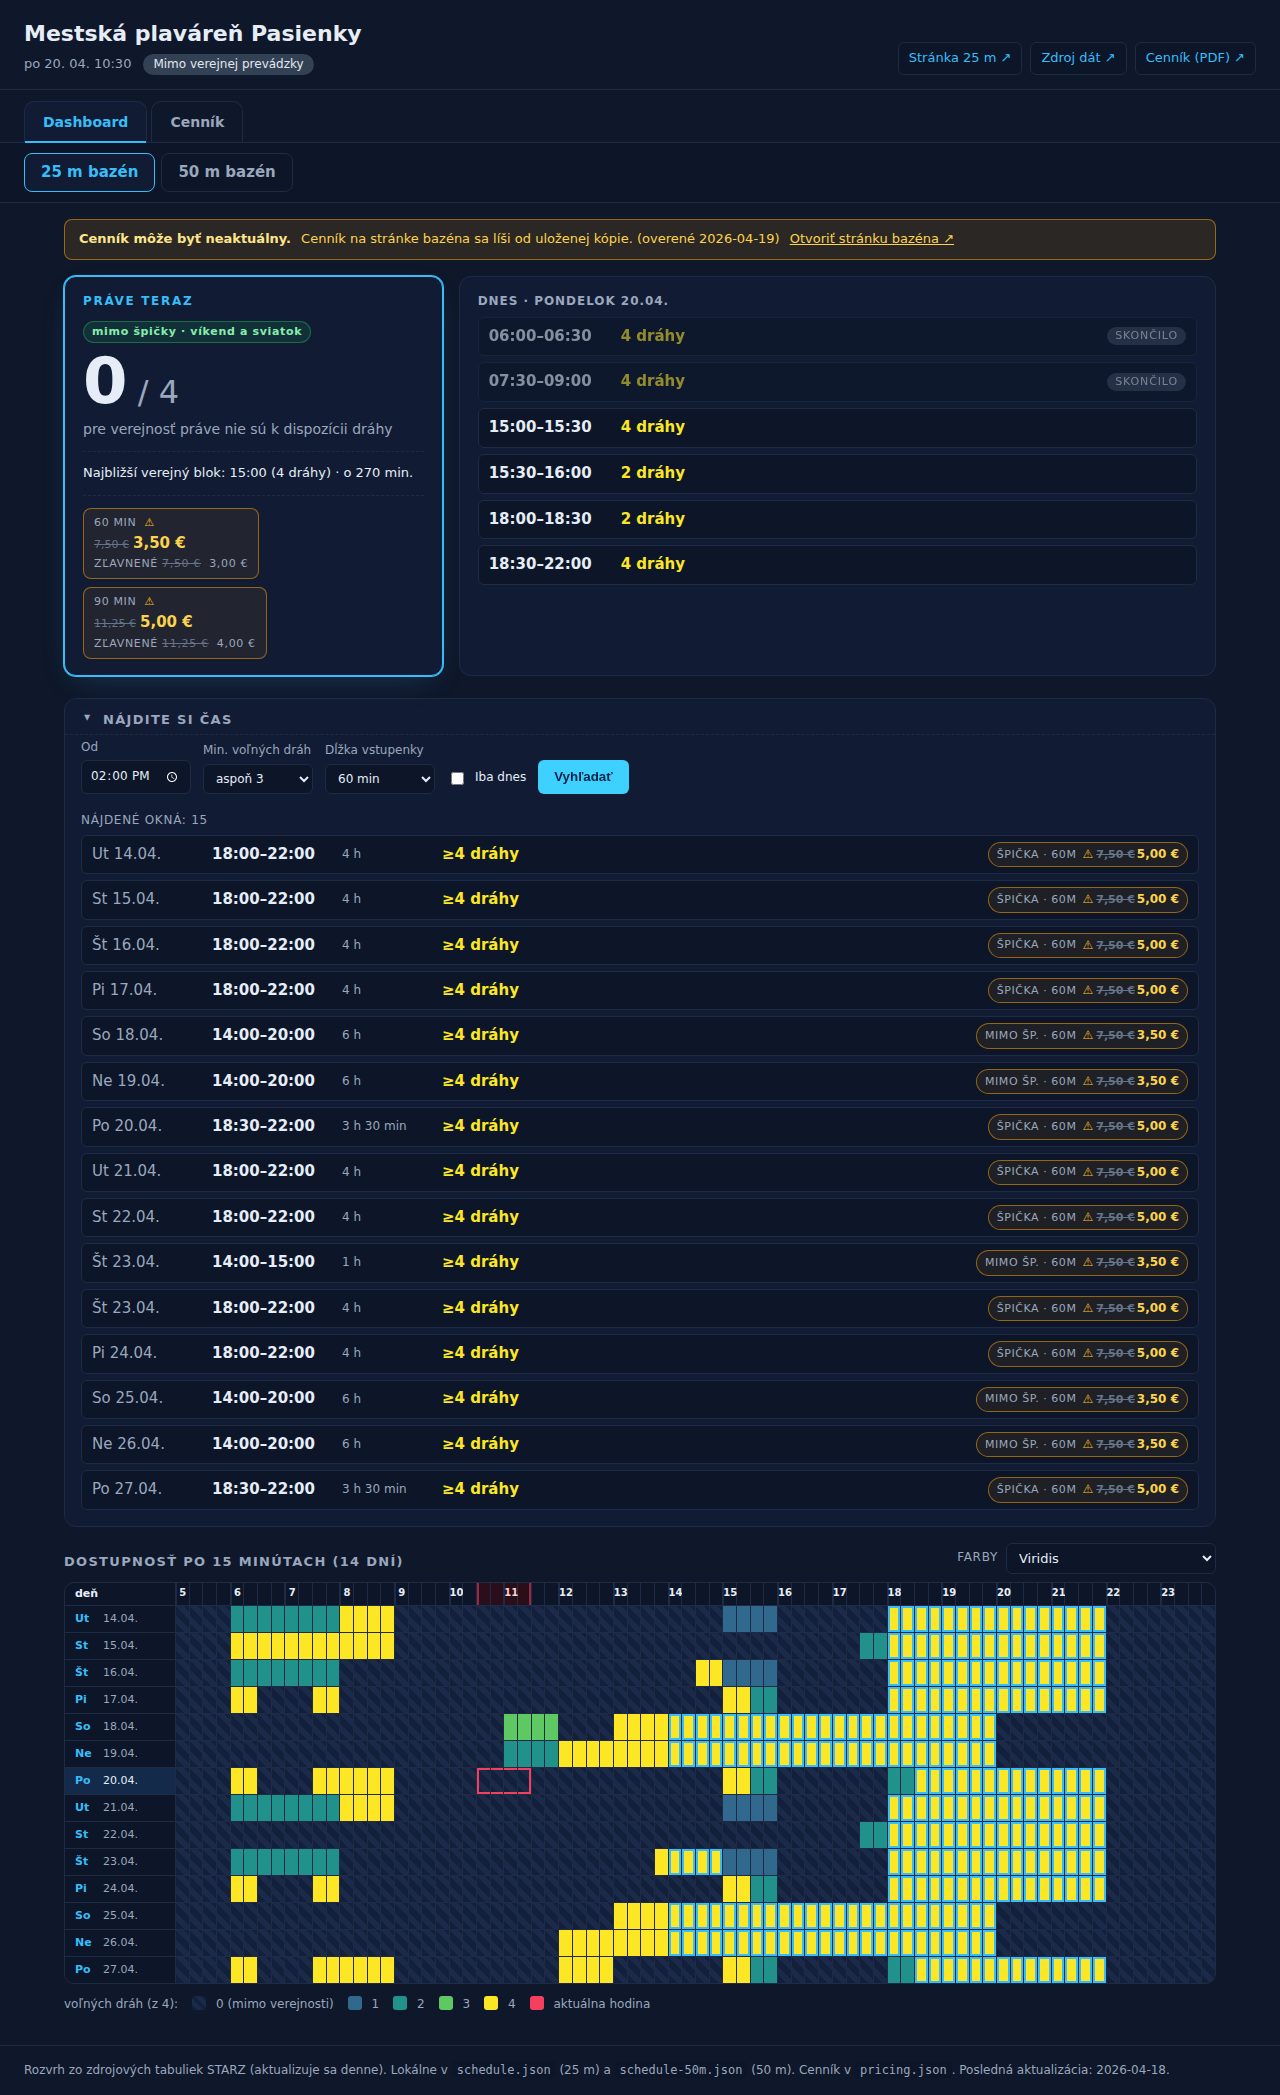
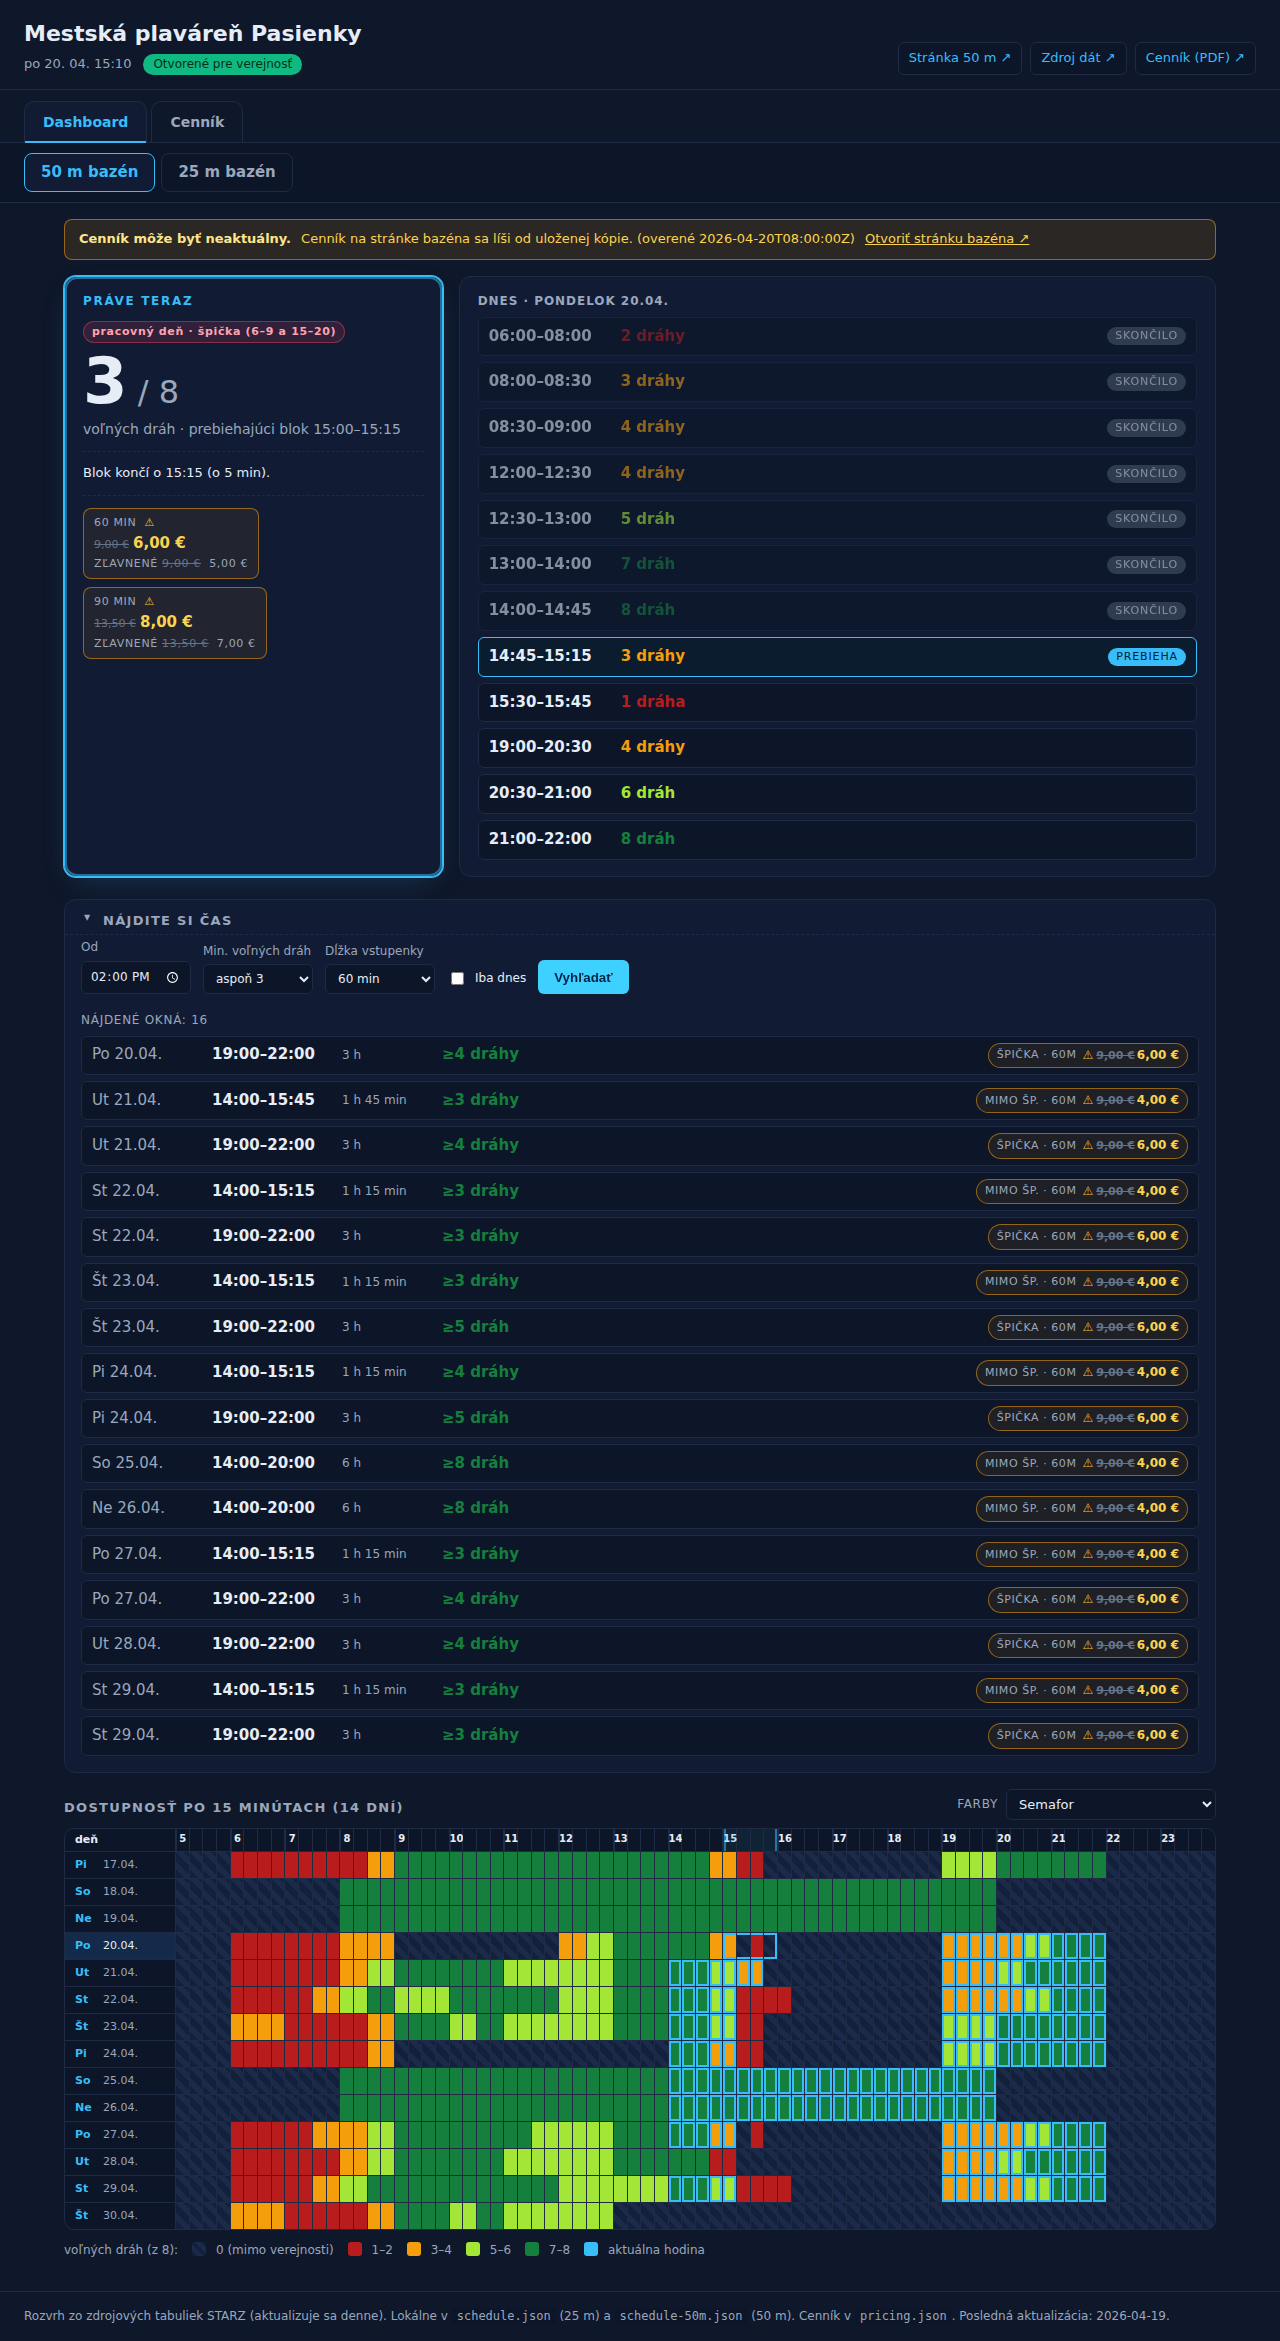
Refresh README screenshots and link to the live site
- Add 'Naživo' link to https://dscibrany.github.io/starzpools/ at top
- Regenerate all docs/screenshot-*.png against the current UI
  (Semafor as default theme, 50 m as default pool, Palette A status
  colors, new 'Zobraziť všetko' mobile toggle, Dnes lane counts tinted
  by occupancy, collapsed finder by default)

diff --git a/README.md b/README.md
@@ -1,5 +1,7 @@
 # STARZ Pasienky — voľné dráhy
 
+**Naživo:** <https://dscibrany.github.io/starzpools/>
+
 Jednoduchý statický dashboard, ktorý vizualizuje počet voľných dráh pre
 verejnosť v Mestskej plavárni Pasienky (STARZ Bratislava) v 15-minútových
 blokoch na 14 dní dopredu. Podporuje **25 m aj 50 m bazén**.
